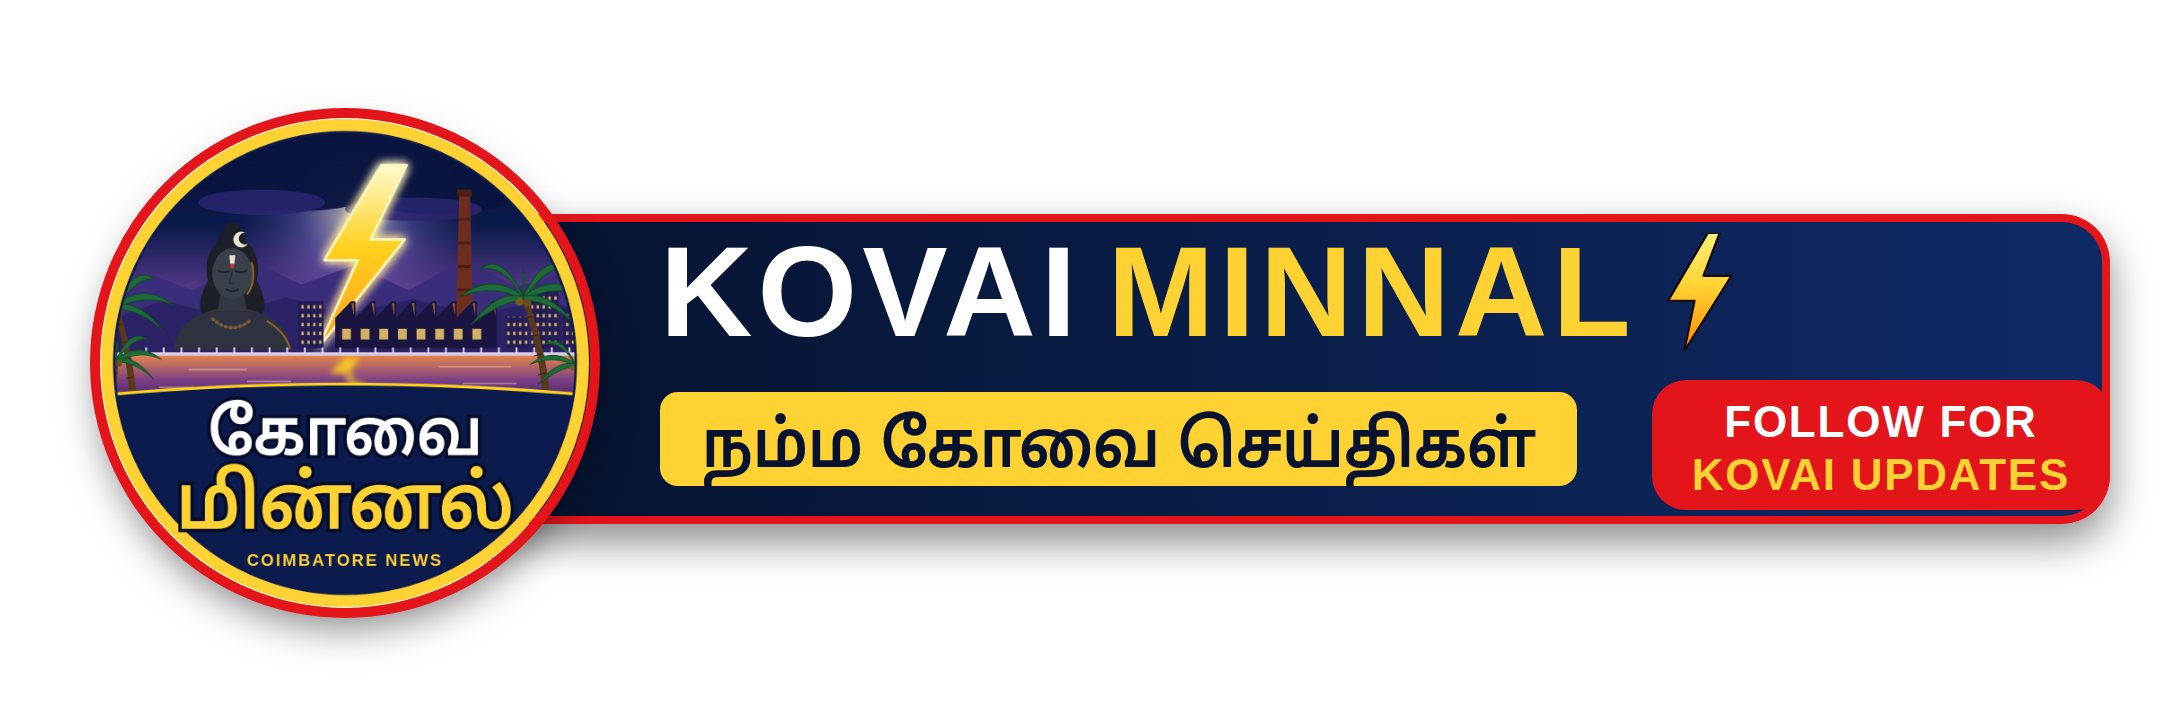
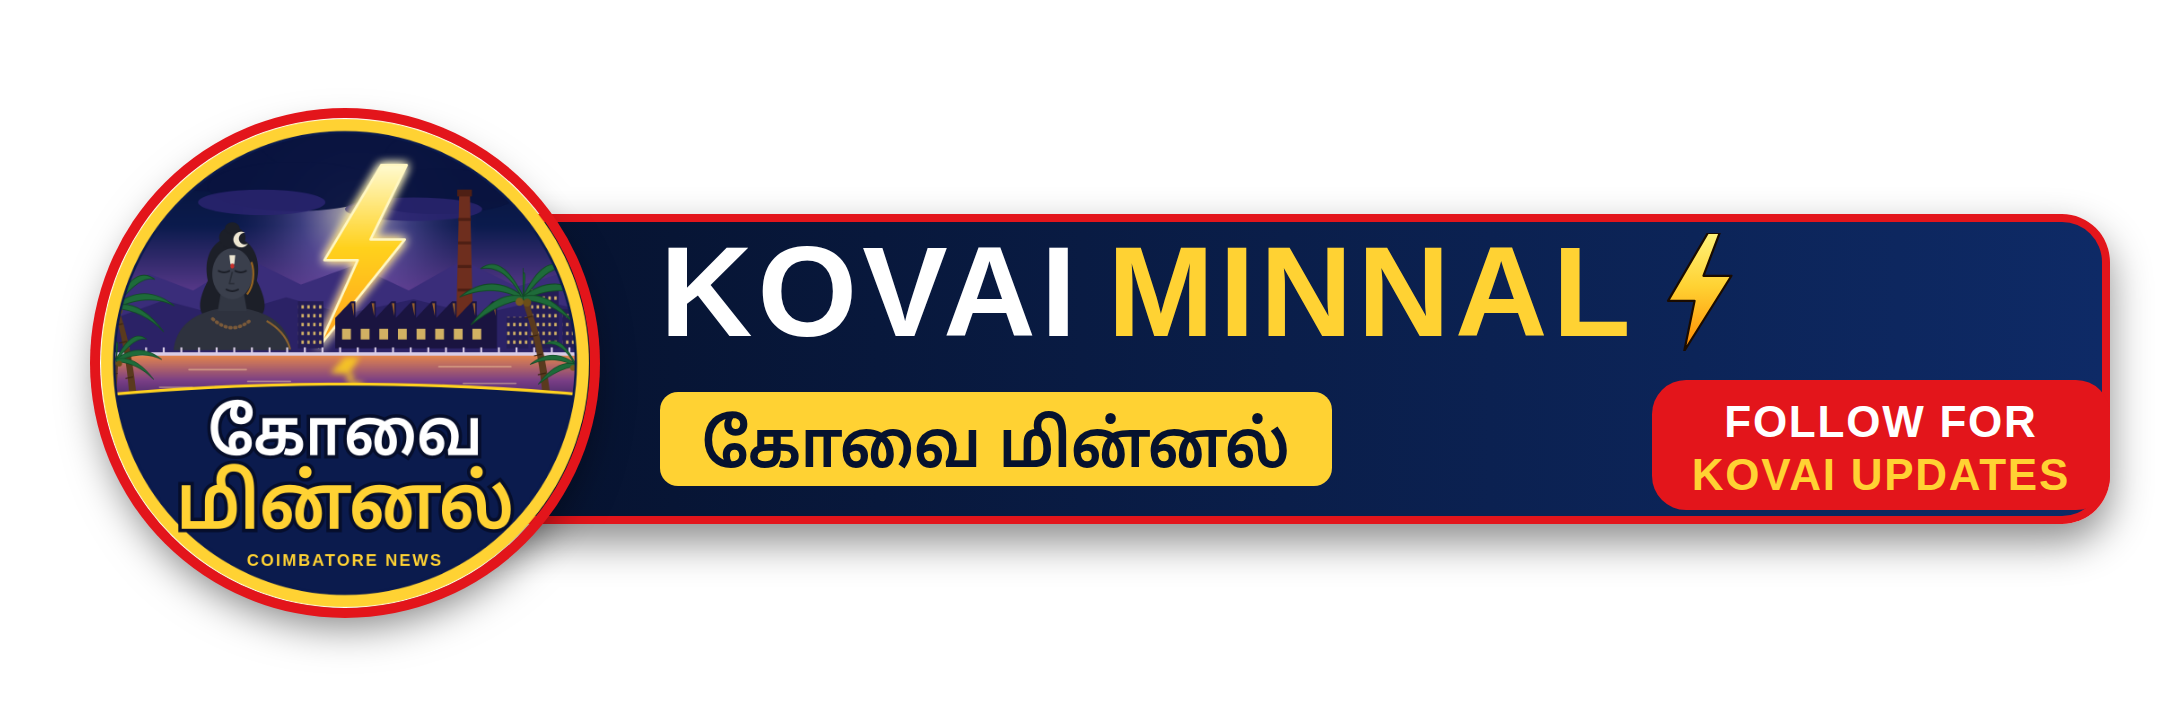
Only கோவை மின்னல் in the video: footer pill and end-card line (no செய்திகள்)

Changed region(s): [[0.3085, 0.5166, 0.7403, 0.6685]]

diff --git a/reel/reel.py b/reel/reel.py
@@ -18,7 +18,7 @@ FS = NM / "@fontsource"
 ICONS = NM / "@fortawesome" / "fontawesome-free" / "svgs" / "solid"
 # Kovai Minnal: ONE page (no second page). Page name / handle / logo in this one place.
 PAGES = {
-    "coimbatore": {"logo": "logo_coimbatore.png", "name": "கோவை மின்னல்", "handle": "kovaiminnal", "tagline": "நம்ம கோவை செய்திகள்", "follow": "கோவை மாவட்டச்<br>செய்திகளுக்கு",
+    "coimbatore": {"logo": "logo_coimbatore.png", "name": "கோவை மின்னல்", "handle": "kovaiminnal", "tagline": "கோவை மின்னல்", "follow": "கோவை மாவட்டச்<br>செய்திகளுக்கு",
                    "ticker": "கோவை மின்னல்  •  கோவை மாவட்டச் செய்திகள்  •  Follow செய்யுங்கள்", "footer": "footer_coimbatore.png", "hashtag": "#KovaiMinnal"},
 }
 PAGE = PAGES["coimbatore"]

diff --git a/tools/make_brand.py b/tools/make_brand.py
@@ -51,7 +51,7 @@ body{{width:2172px;height:724px}}
 </style></head><body>
 <div id="bar"></div><img id="logo" src="{logo_uri}">
 <div id="name" class="en">KOVAI <b>MINNAL</b>{BOLT.format(id="F", style="")}</div>
-<div id="tag" class="ta">நம்ம கோவை செய்திகள்</div>
+<div id="tag" class="ta">கோவை மின்னல்</div>
 <div id="fol" class="en">FOLLOW FOR<b>KOVAI UPDATES</b></div>
 </body></html>"""
 
@@ -230,7 +230,7 @@ body{{width:2160px;height:400px;overflow:hidden;background:transparent}}
 </style></head><body>
 <div id="bar"></div><img id="logo" src="{logo_uri}">
 <div id="name" class="en">KOVAI <b>MINNAL</b>{BOLT.format(id="W", style="")}</div>
-<div id="tag" class="ta">நம்ம கோவை செய்திகள்</div>
+<div id="tag" class="ta">கோவை மின்னல்</div>
 <div id="fol" class="en">FOLLOW<b>@kovaiminnal</b></div>
 </body></html>"""
 
